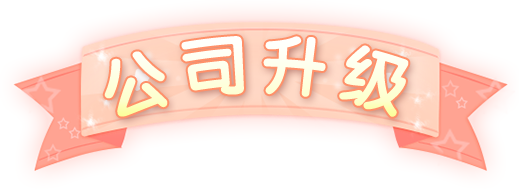
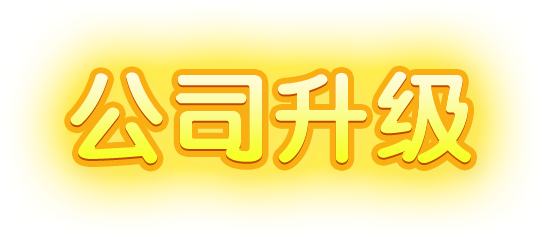
lakkey 160905:2117 再次修改公司升级动画

diff --git a/sources/view/upgrade/UpgradeLayer.cpp b/sources/view/upgrade/UpgradeLayer.cpp
@@ -46,9 +46,9 @@ bool UpgradeLayer::init(){
     do {
         CC_BREAK_IF(!CCLayerColor::initWithColor(ccc4(250, 250, 250, 0), DISPLAY->ScreenWidth(), DISPLAY->ScreenHeight()));
         
-        this->setTouchSwallowEnabled(true);
-        this->setTouchMode(kCCTouchesOneByOne);
-        this->setTouchEnabled(true);
+//        this->setTouchSwallowEnabled(true);
+//        this->setTouchMode(kCCTouchesOneByOne);
+//        this->setTouchEnabled(true);
         
         bRet = true;
     } while (0);
@@ -56,9 +56,10 @@ bool UpgradeLayer::init(){
     return bRet;
 }
 
-bool UpgradeLayer::ccTouchBegan(CCTouch *pTouch, CCEvent *pEvent){
-    return true;
-}
+//bool UpgradeLayer::ccTouchBegan(CCTouch *pTouch, CCEvent *pEvent){
+//    
+//    return true;
+//}
 
 UpgradeLayer* UpgradeLayer::create_with_index(int index){
     UpgradeLayer* rtn = UpgradeLayer::create();
@@ -77,15 +78,18 @@ void UpgradeLayer::init_with_index(int index){
 }
 
 void UpgradeLayer::creat_view1(){
+    content = CCLayer::create();
+    this->addChild(content);
+    content->setPosition(ccp(-DISPLAY->halfW() * 0.5, 0));
+    content->runAction(CCMoveTo::create(0.5, CCPointZero));
     
     CCSprite* louSpr = CCSprite::create("res/pic/taskScene/upgrade1/upgrade_lou.png");
     louSpr->setPosition(ccp(DISPLAY->ScreenWidth()* .5f, DISPLAY->ScreenHeight()* .5f));
-    this->addChild(louSpr);
+    content->addChild(louSpr);
     
     CCSprite* diaocheSpr1 = CCSprite::create("res/pic/taskScene/upgrade1/upgrade_diaoche1.png");
     diaocheSpr1->setPosition(ccp(DISPLAY->ScreenWidth()* .5f, DISPLAY->ScreenHeight()* .5f));
-    this->addChild(diaocheSpr1, 5);
-    
+    content->addChild(diaocheSpr1, 5);
     
     diaocheSpr2 = CCSprite::create("res/pic/taskScene/upgrade1/upgrade_diaoche2.png");
     CCSprite* stencil = CCSprite::create();
@@ -100,22 +104,18 @@ void UpgradeLayer::creat_view1(){
     CCMoveTo* moveTo2 = CCMoveTo::create(1.8f, ccp(0, 0));
     diaocheSpr2->runAction(CCRepeatForever::create(CCSequence::create(moveTo1, CCDelayTime::create(.4f), moveTo2, NULL)));
     
-    
     CCSprite* weilanSpr1 = CCSprite::create("res/pic/taskScene/upgrade1/upgrade_weilan1.png");
     weilanSpr1->setPosition(ccp(DISPLAY->ScreenWidth()* .5f, DISPLAY->ScreenHeight()* .5f));
-    this->addChild(weilanSpr1, 10);
-    
+    content->addChild(weilanSpr1, 10);
     
     CCSprite* weilanSpr2 = CCSprite::create("res/pic/taskScene/upgrade1/upgrade_weilan2.png");
     weilanSpr2->setPosition(ccp(DISPLAY->ScreenWidth()* .5f, DISPLAY->ScreenHeight()* .5f));
-    this->addChild(weilanSpr2, 2);
-    
+    content->addChild(weilanSpr2, 2);
     
     CCSprite* paiziSpr = CCSprite::create("res/pic/taskScene/upgrade1/upgrade_paizi.png");
     paiziSpr->setAnchorPoint(ccp(.5f, 1));
     paiziSpr->setPosition(ccp(weilanSpr1->getContentSize().width* .41f, weilanSpr1->getContentSize().height* .55f));
     weilanSpr1->addChild(paiziSpr);
-    
     
     CCRotateTo* rotateTo1 = CCRotateTo::create(.4f, -30);
     CCRotateTo* rotateTo2 = CCRotateTo::create(.4f, 0);
@@ -124,26 +124,44 @@ void UpgradeLayer::creat_view1(){
     CCSequence* seq = CCSequence::create(rotateTo1, rotateTo2, rotateTo3, rotateTo4, NULL);
     paiziSpr->runAction(CCRepeatForever::create(seq));
     
-    this->scheduleOnce(SEL_SCHEDULE(&UpgradeLayer::closeLayer), 6.f);
+//    this->scheduleOnce(SEL_SCHEDULE(&UpgradeLayer::closeLayer), 6.f);
 }
 
-void UpgradeLayer::closeLayer(float dt){
-    
+void UpgradeLayer::closeLayer(){
+    CCSequence* seq = CCSequence::create(CCMoveTo::create(0.5, ccp(-DISPLAY->halfW() * 0.5, 0)), CCRemoveSelf::create(), NULL);
+    content->runAction(seq);
 }
 
 void UpgradeLayer::creat_view2(){
-    CCSprite* bgSpr = CCSprite::create("res/pic/mask.png");
-    bgSpr->setPosition(ccp(DISPLAY->ScreenWidth()* .5f, DISPLAY->ScreenHeight()* .5f));
-    this->addChild(bgSpr);
+    this->show_roles();
+    this->creat_hua1();
+    this->show_title();
+}
+
+void UpgradeLayer::show_roles() {
+    CCSprite* shadow1 = CCSprite::create("res/pic/taskScene/upgrade2/shadow1.png");
+    shadow1->setPosition(ccp(DISPLAY->halfW() - 140, DISPLAY->H() * 0.255));
+    this->addChild(shadow1, 4);
     
-    CCSprite* titleSpr = CCSprite::create("res/pic/taskScene/upgrade2/upgrade_title.png");
-    titleSpr->setPosition(ccp(DISPLAY->ScreenWidth()* .5f, DISPLAY->ScreenHeight()* .7f));
-    this->addChild(titleSpr);
+    CCSprite* shadow2 = CCSprite::create("res/pic/taskScene/upgrade2/shadow2.png");
+    shadow2->setPosition(ccp(DISPLAY->halfW() + 125, DISPLAY->H() * 0.255));
+    this->addChild(shadow2, 4);
     
-    // 人
     manSpr = CCSprite::create("res/pic/taskScene/upgrade2/upgrade_man1.png");
     manSpr->setPosition(ccp(DISPLAY->ScreenWidth()* .5f, DISPLAY->ScreenHeight()* .4f));
     this->addChild(manSpr, 5);
+    
+    CCCallFunc* anim = CCCallFunc::create(this, SEL_CallFunc(&UpgradeLayer::role_animation));
+    manSpr->runAction(CCSequence::create(CCFadeIn::create(1.5), CCDelayTime::create(0.3), anim, NULL));
+}
+
+void UpgradeLayer::role_animation() {
+    {
+        CCSprite* caidai = CCSprite::create("res/pic/taskScene/upgrade2/caidai.png");
+        caidai->setPosition(ccp(DISPLAY->halfW(), DISPLAY->H() * 0.35));
+        this->addChild(caidai);
+    }
+    
     CCArray* manAnimations = CCArray::createWithCapacity(3);
     char manStr[100] = {};
     for (int i = 1; i <= 2; i++) {
@@ -156,8 +174,46 @@ void UpgradeLayer::creat_view2(){
     CCAnimate* animate = CCAnimate::create(animation);
     CCRepeatForever* rep = CCRepeatForever::create(animate);
     CCDirector::sharedDirector()->getActionManager()->addAction(rep, manSpr, false);
+}
+
+void UpgradeLayer::show_title() {
+    float originScale = 0.2f;
+    float duration = 0.6f;
     
-    this->creat_hua1();
+    CCSprite* titleSpr = CCSprite::create("res/pic/taskScene/upgrade2/upgrade_title.png");
+    titleSpr->setPosition(ccp(DISPLAY->ScreenWidth()* .5f, DISPLAY->ScreenHeight()* .7f));
+    titleSpr->setScale(originScale);
+    this->addChild(titleSpr, 100);
+
+    CCCallFunc* done = CCCallFunc::create(this, SEL_CallFunc(&UpgradeLayer::show_stars));
+    CCSequence* seq = CCSequence::create(CCEaseExponentialIn::create(CCScaleTo::create(duration, 1)), done, NULL);
+    titleSpr->runAction(seq);
+}
+
+void UpgradeLayer::show_stars() {
+    float originScale = 0.2f;
+    float duration = 0.6f;
+    
+    CCSprite* stars = CCSprite::create("res/pic/taskScene/upgrade2/stars.png");
+    stars->setPosition(ccp(DISPLAY->ScreenWidth()* .5f, DISPLAY->ScreenHeight()* .7f));
+    stars->setAnchorPoint(ccp(0.5, 0));
+    stars->setScale(originScale);
+    this->addChild(stars);
+    
+    CCCallFunc* done = CCCallFunc::create(this, SEL_CallFunc(&UpgradeLayer::show_stars_done));
+    CCSequence* seq = CCSequence::create(CCEaseExponentialIn::create(CCScaleTo::create(duration, 1)), done, NULL);
+    stars->runAction(seq);
+}
+
+void UpgradeLayer::show_stars_done() {
+    CCSprite* balabala = CCSprite::create("res/pic/taskScene/upgrade2/hua0.png");
+    balabala->setPosition(ccp(DISPLAY->halfW(), DISPLAY->halfH()));
+    this->addChild(balabala);
+    
+    CCSprite* hoodle = CCSprite::create("res/pic/taskScene/upgrade2/hua0.png");
+    hoodle->setPosition(ccp(DISPLAY->halfW(), DISPLAY->H() * 0.45));
+    this->addChild(hoodle);
+    
 }
 
 void UpgradeLayer::creat_hua1(){

diff --git a/sources/view/taskScene/BuildingLayer.cpp b/sources/view/taskScene/BuildingLayer.cpp
@@ -165,6 +165,9 @@ void BuildingLayer::show_building() {
 
 void BuildingLayer::show_phase_up() {
     CCLOG("BuildingLayer::show_phase_up()");
+    CCSequence* seqBuilding = CCSequence::create(CCMoveTo::create(0.5, ccp(-DISPLAY->halfW() * 0.5, this->_building->getPositionY())), CCFadeOut::create(0.1), NULL);
+    this->_building->runAction(seqBuilding);
+    
     UpgradeLayer* layer = UpgradeLayer::create_with_index(1);
     this->addChild(layer);
     
@@ -174,7 +177,8 @@ void BuildingLayer::show_phase_up() {
 }
 
 void BuildingLayer::on_construction_finish(CCNode* node) {
-    node->removeFromParentAndCleanup(true);
+//    node->removeFromParentAndCleanup(true);
+    ((UpgradeLayer*)node)->closeLayer();
     
     CCString* str = NULL;
     if (_phase < 3) {
@@ -183,6 +187,8 @@ void BuildingLayer::on_construction_finish(CCNode* node) {
     else {
         str = CCString::createWithFormat("res/pic/taskScene/task_building_%d.png", 3);
     }
+    
+    this->_building->setVisible(true);
     CCSprite* newBuilding = CCSprite::create(str->getCString());
     newBuilding->setAnchorPoint(CCPointZero);
     _building->addChild(newBuilding);
@@ -192,7 +198,7 @@ void BuildingLayer::on_construction_finish(CCNode* node) {
     CCLOG("layer = %p", layer);
 
     CCCallFuncN* done = CCCallFuncN::create(this, SEL_CallFuncN(&BuildingLayer::on_phaseup_finish));
-    CCSequence* seq = CCSequence::create(CCDelayTime::create(3), done, NULL);
+    CCSequence* seq = CCSequence::create(CCDelayTime::create(5), done, NULL);
     layer->runAction(seq);
 }
 

diff --git a/sources/view/upgrade/UpgradeLayer.h b/sources/view/upgrade/UpgradeLayer.h
@@ -32,15 +32,15 @@ public:
     void keyBackStatus(float dt);
     virtual void keyBackClicked();
     
-    virtual bool ccTouchBegan(CCTouch *pTouch, CCEvent *pEvent);
-    virtual void ccTouchMoved(CCTouch *pTouch, CCEvent *pEvent) {}
-    virtual void ccTouchEnded(CCTouch *pTouch, CCEvent *pEvent) {}
-    virtual void ccTouchCancelled(CCTouch *pTouch, CCEvent *pEvent) {}
+//    virtual bool ccTouchBegan(CCTouch *pTouch, CCEvent *pEvent);
+//    virtual void ccTouchMoved(CCTouch *pTouch, CCEvent *pEvent) {}
+//    virtual void ccTouchEnded(CCTouch *pTouch, CCEvent *pEvent) {}
+//    virtual void ccTouchCancelled(CCTouch *pTouch, CCEvent *pEvent) {}
     
     CREATE_FUNC(UpgradeLayer);
     
 public:
-    
+    CCLayer* content;
     CCSprite* diaocheSpr2;
     CCSprite* huaSpr;
     CCSprite* manSpr;
@@ -50,11 +50,17 @@ public:
 public:
     
     void creat_view1();
-    void closeLayer(float dt);
+    void closeLayer();
     void creat_view2();
     void creat_hua1();
     void creat_hua2();
     void creat_hua3();
     void creat_hua4();
+    
+    void show_roles();
+    void role_animation();
+    void show_title();
+    void show_stars();
+    void show_stars_done();
 };
 #endif /* defined(__tiegao__UpgradeLayer__) */

diff --git a/sources/view/panel/Signin7Panel.cpp b/sources/view/panel/Signin7Panel.cpp
@@ -39,7 +39,7 @@ Signin7Panel::~Signin7Panel() {
 
 bool Signin7Panel::init() {
     if (CCLayer::init()) {
-        CCSprite* mask = CCSprite::create("res/pic/mask.png");
+        CCSprite* mask = CCSprite::create("res/pic/white_mask.png");
         mask->setPosition(DISPLAY->center());
         this->addChild(mask);
         
@@ -156,7 +156,7 @@ void Signin7Panel::config_siginInfo(){
         switch (cur_state) {
             case e_SigninState_Locked:{
                 // 锁定
-                //                state_spr = CCSprite::create("res/pic/mask.png");
+                //                state_spr = CCSprite::create("res/pic/white_mask.png");
                 //                state_spr->CCNode::setScale(icon_bg->getContentSize().width / state_spr->getContentSize().width, icon_bg->getContentSize().height / state_spr->getContentSize().height);
                 //                state_spr->setPosition(ccp(icon_bg->getContentSize().width* .5f, icon_bg->getContentSize().height* .5f));
                 //                icon_bg->addChild(state_spr);

diff --git a/sources/view/game/color/ColorLayer.cpp b/sources/view/game/color/ColorLayer.cpp
@@ -75,7 +75,7 @@ bool ColorLayer::init(){
     CCSprite * bg = CCSprite::create("res/pic/game/color/color_bg.png");
     bg->setPosition(ccp(DISPLAY->ScreenWidth()* .5f, DISPLAY->ScreenHeight()* .5f));
     this->addChild(bg);
-    CCSprite * bg2 = CCSprite::create("res/pic/mask.png");
+    CCSprite * bg2 = CCSprite::create("res/pic/white_mask.png");
     bg2->setPosition(ccp(bg->getContentSize().width* .5f, bg->getContentSize().height* .5f));
     bg->addChild(bg2);
     

diff --git a/sources/view/taskScene/TaskScene.cpp b/sources/view/taskScene/TaskScene.cpp
@@ -47,8 +47,8 @@ bool TaskScene::init(bool isPhaseUP){
     if (!BaseScene::init()) {
         return false;
     }
-    
-    _isPhaseUP = isPhaseUP; // 要不要显示升级动画 false不显示
+    _isPhaseUP = true;
+//    _isPhaseUP = isPhaseUP; // 要不要显示升级动画 false不显示
     _buildingLayer = BuildingLayer::create(DATA->getTaskPhase(), _isPhaseUP);
     _buildingLayer->setTag(0x55555);
     this->addChild(_buildingLayer);

diff --git a/sources/view/taskScene/PhoneLayer2.cpp b/sources/view/taskScene/PhoneLayer2.cpp
@@ -91,7 +91,7 @@ void PhoneLayer2::creat_view(){
     fzSpr->setPosition(ccp(0, DISPLAY->H() * 0.22));
     this->addChild(fzSpr, 2);
     
-    CCSprite* maskSpr = CCSprite::create("res/pic/mask.png");
+    CCSprite* maskSpr = CCSprite::create("res/pic/white_mask.png");
     maskSpr->setOpacity(150);
     maskSpr->setPosition(ccp(DISPLAY->ScreenWidth()* .5f, DISPLAY->ScreenHeight()* .5f));
     this->addChild(maskSpr, 5);

diff --git a/sources/view/vipQingjingScene/VipStorySettlementOfTheAnimationLayer.cpp b/sources/view/vipQingjingScene/VipStorySettlementOfTheAnimationLayer.cpp
@@ -56,7 +56,7 @@ VipStorySettlementOfTheAnimationLayer* VipStorySettlementOfTheAnimationLayer::cr
 }
 void VipStorySettlementOfTheAnimationLayer::init_with_index(int index, std::string ending){
     
-    CCSprite* mask = CCSprite::create("res/pic/mask.png");
+    CCSprite* mask = CCSprite::create("res/pic/white_mask.png");
     mask->setPosition(DISPLAY->center());
     this->addChild(mask, 10);
     

diff --git a/sources/view/qingjingScene/StorySettlementOfTheAnimationLayer.cpp b/sources/view/qingjingScene/StorySettlementOfTheAnimationLayer.cpp
@@ -57,7 +57,7 @@ StorySettlementOfTheAnimationLayer* StorySettlementOfTheAnimationLayer::create_w
 }
 void StorySettlementOfTheAnimationLayer::init_with_index(int index, std::string ending){
     
-    CCSprite* mask = CCSprite::create("res/pic/mask.png");
+    CCSprite* mask = CCSprite::create("res/pic/white_mask.png");
     mask->setPosition(DISPLAY->center());
     this->addChild(mask, 10);
     

diff --git a/sources/view/panel/CoinExchangePanel.cpp b/sources/view/panel/CoinExchangePanel.cpp
@@ -23,7 +23,7 @@ bool CoinExchangePanel::init() {
         this->setTouchMode(kCCTouchesOneByOne);
         this->setTouchSwallowEnabled(true);
         
-//        CCSprite* mask = CCSprite::create("res/pic/mask.png");
+//        CCSprite* mask = CCSprite::create("res/pic/white_mask.png");
 //        mask->setPosition(DISPLAY->center());
 //        this->addChild(mask);
         

diff --git a/sources/view/panel/EnergyBuyPanel.cpp b/sources/view/panel/EnergyBuyPanel.cpp
@@ -23,7 +23,7 @@ bool EnergyBuyPanel::init() {
         this->setTouchMode(kCCTouchesOneByOne);
         this->setTouchSwallowEnabled(true);
         
-//        CCSprite* mask = CCSprite::create("res/pic/mask.png");
+//        CCSprite* mask = CCSprite::create("res/pic/white_mask.png");
 //        mask->setPosition(DISPLAY->center());
 //        this->addChild(mask);
         

diff --git a/sources/view/panel/RecommendView.cpp b/sources/view/panel/RecommendView.cpp
@@ -29,7 +29,7 @@ bool RecommendView::init() {
         this->setTouchMode(kCCTouchesOneByOne);
         this->setTouchSwallowEnabled(true);
         
-        CCSprite* mask = CCSprite::create("res/pic/mask.png");
+        CCSprite* mask = CCSprite::create("res/pic/white_mask.png");
         mask->setPosition(DISPLAY->center());
         this->addChild(mask);
         
